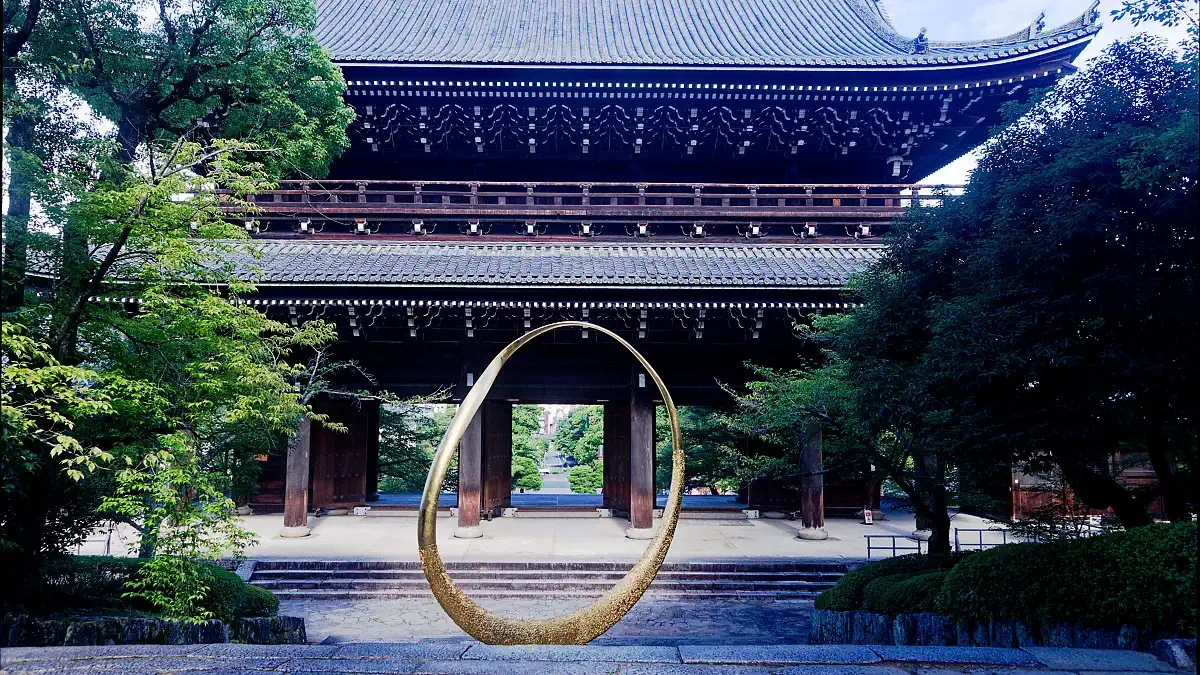
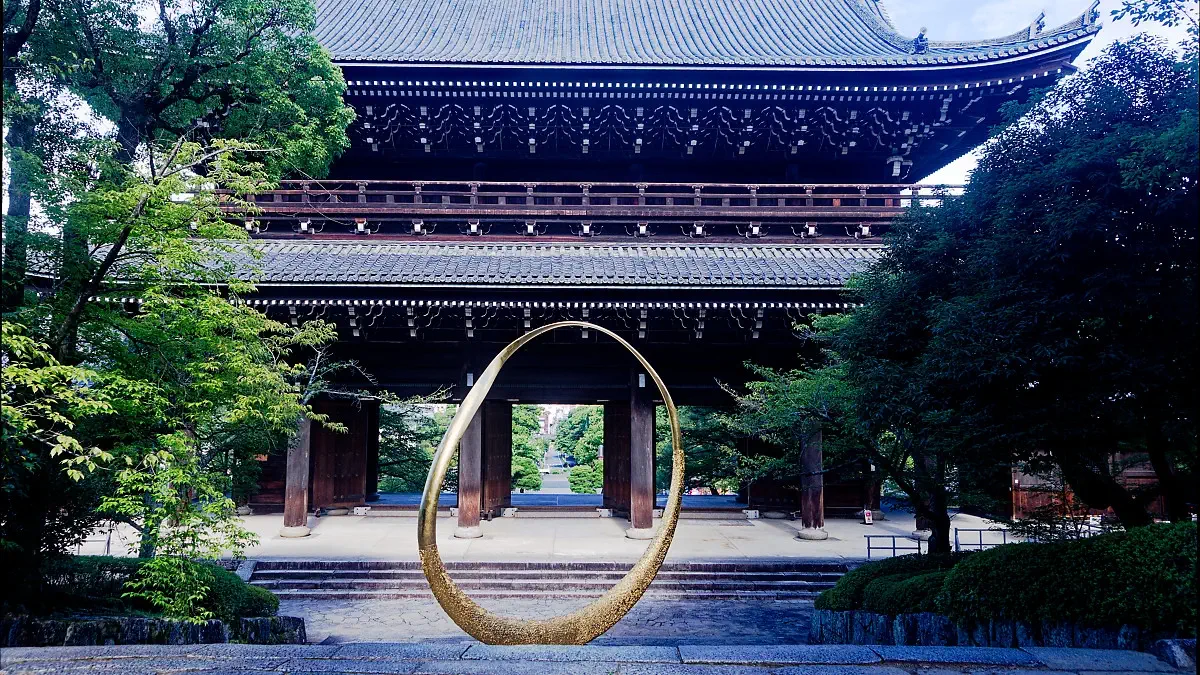
feat(blog): pt2を下書き扱いにして非公開化、ドラフト除外フィルタを全ページに適用
- 2026-10-16-before-rules-there-was-a-way-of-being-pt2.mdx に draft: true を追加
- content.config.ts に draft フィールドをスキーマ追加
- ブログ一覧・詳細・RSS・トップ・ヘッダー・レイアウト・リダイレクトで draft 記事を除外
- richText.ts のインデント崩れを修正

diff --git a/src/utils/richText.ts b/src/utils/richText.ts
@@ -34,13 +34,6 @@ type RichTextNode = {
  * 正規化し、エスケープ残骸を除去する。これで GUI エディタで入れた改行が
  * どの欄（日本語本文 / 英語本文 / 見出し / キャプション / 新規ページ含む）
  * でも同じように反映される。
- *
- * さらに「空の見出し」（`####` + 半角/全角空白のみの行）を空行ギャップ
- * （`&nbsp;` の段落）に置き換える。Keystatic の GUI では真っ白な段落が
- * 保存されないため、改行→空白→改行で空行を作ると `#### 　 ` のような
- * 「中身が空白だけの見出し」として保存される。marked はこれを `<h4></h4>`
- * にするが、中身が空だと高さ 0（Tailwind preflight が margin 0 のため）で
- * 見た目の隙間にならない。`&nbsp;` 段落なら確実に 1 行分の隙間になる。
  */
 function normalizeKeystaticText(value: string): string {
   return value
@@ -53,28 +46,15 @@ function normalizeKeystaticText(value: string): string {
     // `\` + 改行 + インデント → 強制改行。markdoc format() の出力形式。
     // インデントを残すと marked が 4 スペースをコードブロックと誤認し、
     // 改行が `<br>` ではなく別ブロックになってしまうため除去する。
-    .replace(/\\\\n[ \\t]+/g, '\\\\n')
-    // バックスラッシュだけの行（空行に化けた残骸）→ 空行ギャップ。
-    // Keystatic の保存・再読込を繰り返すうちに、空行試行が `\` や `\\` だけの
-    // 行に化けることがある。そのままでは `<p>\</p>` として文字が見えてしまう
-    // ため、他の空行表現と同じ `&nbsp;` ギャップに揃える。
-    .replace(/^[ \t\u3000]*(?:\\\\|\\)+[ \t\u3000]*$/gm, '&nbsp;')
-    // 段落末尾のハードブレーク（`\` + 改行 + 空行）→ 改行だけを残す。
-    // 段落の最後の改行は表示に影響しないため、`\` が文字として
-    // 漏れるのを防ぐ（title / description / heroSubtitle の末尾で発生）。
-    .replace(/\\\n(?=\n)/g, '\n')
-    // 末尾に残ったハードブレーク・バックスラッシュ・空白を除去。
-    // 「最後の行で改行した」意図が `\` として HTML に漏れるのを防ぐ。
-    .replace(/(\\[\s\u3000]*)+$/g, '')
-    // 空の見出し（`####` + 半角/全角空白のみの行）→ 空行ギャップ。
-    // Keystatic GUI では真っ白な段落が保存できないため、「改行→空白→改行」で
-    // 作った空行が「中身が空白だけの見出し」として保存される。marked はこれを
-    // `<h4></h4>` にするが、中身が空だと高さ 0（Tailwind preflight が margin 0 の
-    // ため）で隙間にならない。`&nbsp;` の段落なら確実に 1 行分の隙間になる。
-    .replace(/^[ \t]{0,3}#{1,6}[ \t\u3000]*$/gm, '&nbsp;')
-    // 3 行以上連なる改行（空行の連なり）→ 空行 1 本ごとに `&nbsp;` 段落を挟む。
-    // これでエディタで開けた空行の数だけ HTML にも隙間が入る。
-    .replace(/\n{3,}/g, (m) => '\n\n' + '&nbsp;\n\n'.repeat(m.length - 2));
+    .replace(/\\\n[ \t]+/g, '\\\n')
+    // 空行（1行開ける / 空段落）：Keystatic は保存・再読込の際に空段落を
+    // 自動でマージ・削除するため、ファイル上の連続改行を hard break の
+    // 連なりに正規化して、HTML 側で確実に <br> として反映させる。
+    // 例: "A\n\n\nB"（空行1つ）→ "A\\\n\\\nB" → marked で <br><br>
+    .replace(/\n{3,}/g, (match) => {
+      const breaks = '\\\n'.repeat(match.length - 1);
+      return breaks;
+    });
 }
 
 function normalizeInlineText(value: string): string {
@@ -138,8 +118,8 @@ export function richTextToMarkdown(content: unknown): string {
 
       return renderInlineNode(child).trimEnd();
     })
-    .join('\n\n')
-
+    .filter(Boolean)
+    .join('\n\n');
 }
 
 export function richTextToHtml(content: unknown): string {
@@ -230,7 +210,6 @@ export function stripMarkdown(content: unknown): string {
     .replace(/^[ \t]{0,3}(?:[-*_] *){3,}$/gm, '') // 区切り線
     .replace(/[*_`~]/g, '')                   // 強調・コード
     .replace(/\\/g, '')                       // ハードブレークの `\` 残骸
-    .replace(/&nbsp;/g, ' ')                   // 空行ギャップの `&nbsp;`
     .replace(/\s+/g, ' ')                     // 改行・連続空白を 1 つに畳む
     .trim();
 }

diff --git a/src/content.config.ts b/src/content.config.ts
@@ -9,6 +9,8 @@ const blog = defineCollection({
     // rename されて URL が変わってしまうため、専用の slug を分けている。
     slug: z.string().optional(),
     title: z.string(),
+    // 下書きフラグ。true の場合、一覧・詳細・RSS から除外して非公開にする。
+    draft: z.boolean().optional(),
     // 表示順（No.）。未入力なら公開日の昇順で自動採番（src/utils/postOrder.ts）。
     // 入れ替えたい場合はこの値だけ変更する（同じ数字は後続にずれる）。
     //

diff --git a/src/pages/rss.xml.js b/src/pages/rss.xml.js
@@ -4,7 +4,9 @@ import { permalinkOf } from '../utils/postOrder';
 import config from '../content/config/config.json'
 
 export async function GET(context) {
-	const posts = await getCollection('blog');
+	const posts = (await getCollection('blog')).filter(
+		(post) => !post.data.draft,
+	);
 	return rss({
 		title: config.seo.title,
 		description: config.seo.description,

diff --git a/_fix_richtext.py b/_fix_richtext.py
@@ -1,0 +1,6 @@
+    p='src/utils/richText.ts'
+L=open(p).read().split(chr(10))
+L[54]="      const breaks = '\\\\\\n'.repeat(match.length - 1);"
+open(p,'w').write(chr(10).join(L))
+print('done')
+print(repr(L[54]))
